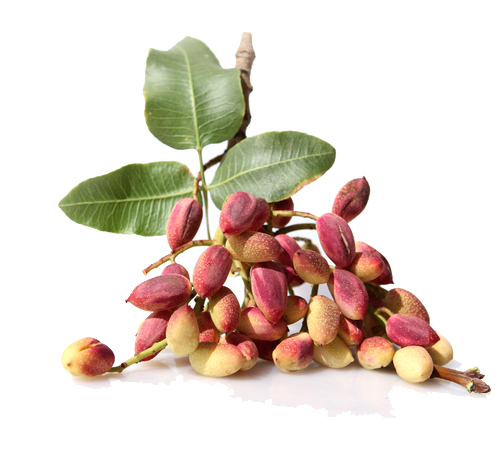
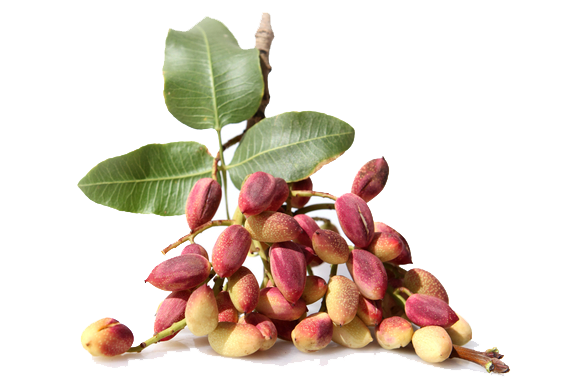
Changed display fir center image and worked on responsiveness of data section

diff --git a/assets/css/style.css b/assets/css/style.css
@@ -20,6 +20,7 @@ h1 {
 
 h2 {
     padding: 25px;
+    margin: 0;
 }
 
 h3 {
@@ -50,8 +51,8 @@ h3 {
 
 @media (max-width: 576px) {
     .col-sm-4 img {
-        width: 85px;
-        height: 85px;
+        width: 105px;
+        height: 105px;
     }
 }
 
@@ -159,12 +160,7 @@ h3 {
     padding-top: 25px;
     padding-bottom: 40px;
     background-color: rgba(226, 208, 148, 0.842);
-    
-
-
 }
-
-
 
 form {
     width: 60%;
@@ -189,6 +185,10 @@ form {
 
 #nut-bio p {
     padding:0 100px;
+}
+
+.info-container h3 {
+    padding-top: 25px;
 }
 
 @media (max-width: 576px) {
@@ -268,6 +268,10 @@ footer {
 .nut-icons {
     padding-bottom: 20px;
     padding-top: 50px;
+}
+
+.nut-links {
+    margin: 0;
 }
 
 .nut-links li img {
@@ -386,8 +390,13 @@ footer {
 }
 
 .c3-legend-item {
-    font-size: 1.1rem;
+    font-size: 1rem;
     text-align: center;
+}
+@media (max-width: 576px) {
+    .c3-legend-item {
+        font-size: 0.9rem;
+    }
 }
 
 .result {
@@ -427,9 +436,27 @@ footer {
 } 
 
 #chart {
-    padding-top: 40px;
+    height: 700px;
+    width: 75%;
+    padding-top: 65px;
     margin: auto;
 }
+
+@media (max-width: 576px) {
+    #chart {
+        height: 450px;
+        padding-bottom: 10px;
+        padding-top: 0;
+        margin-right: 10px;
+        margin-left: 0;
+        width: 90%;
+    }
+}
+
+.c3-legend-item-tile {
+    display: none;
+}
+
 
 #data-container {
     display: inline-block;
@@ -438,10 +465,23 @@ footer {
 
 .performance-facts {
   border: 1px solid black;
-  width: 300px;
+  width: 400px;
   padding: 0.5rem;
   margin: auto;
 }
+
+@media (max-width: 768px) {
+  .performance-facts {
+      width: 400px;
+  }
+}
+
+@media (max-width: 576px) {
+  .performance-facts {
+      width: 300px;
+  }
+}
+
 table {
     border-collapse: collapse;
     
@@ -538,11 +578,20 @@ span {
 
 #data-center-img {
     margin: auto;
+    padding: 35px 0;
+}
+
+@media (max-width: 768px) {
+    #data-center-img {
+        display: none;
+    }
 }
 
 #data-center-img img {
-    border-radius: 50%;
-    padding: 30px 30px;
+    width: 450px;
+    height: 450px;
+    border-radius: 45%;
+    padding: 75px 0;
     border: 8px solid rgba(78, 124, 72, 0.808);
     box-shadow: 0 5px 8px 0 rgba(0, 0, 0, 0.4), 0 6px 20px 0 rgba(0, 0, 0, 0.19);
 }

diff --git a/assets/js/script.js b/assets/js/script.js
@@ -206,10 +206,7 @@ $(document).ready(function () {
       .fadeIn("slow");
 
     var chart = c3.generate({
-      size: {
-        height: 600,
-        width: 500,
-      },
+      
       data: {
         x: "x",
         xFormat: "%Y",
